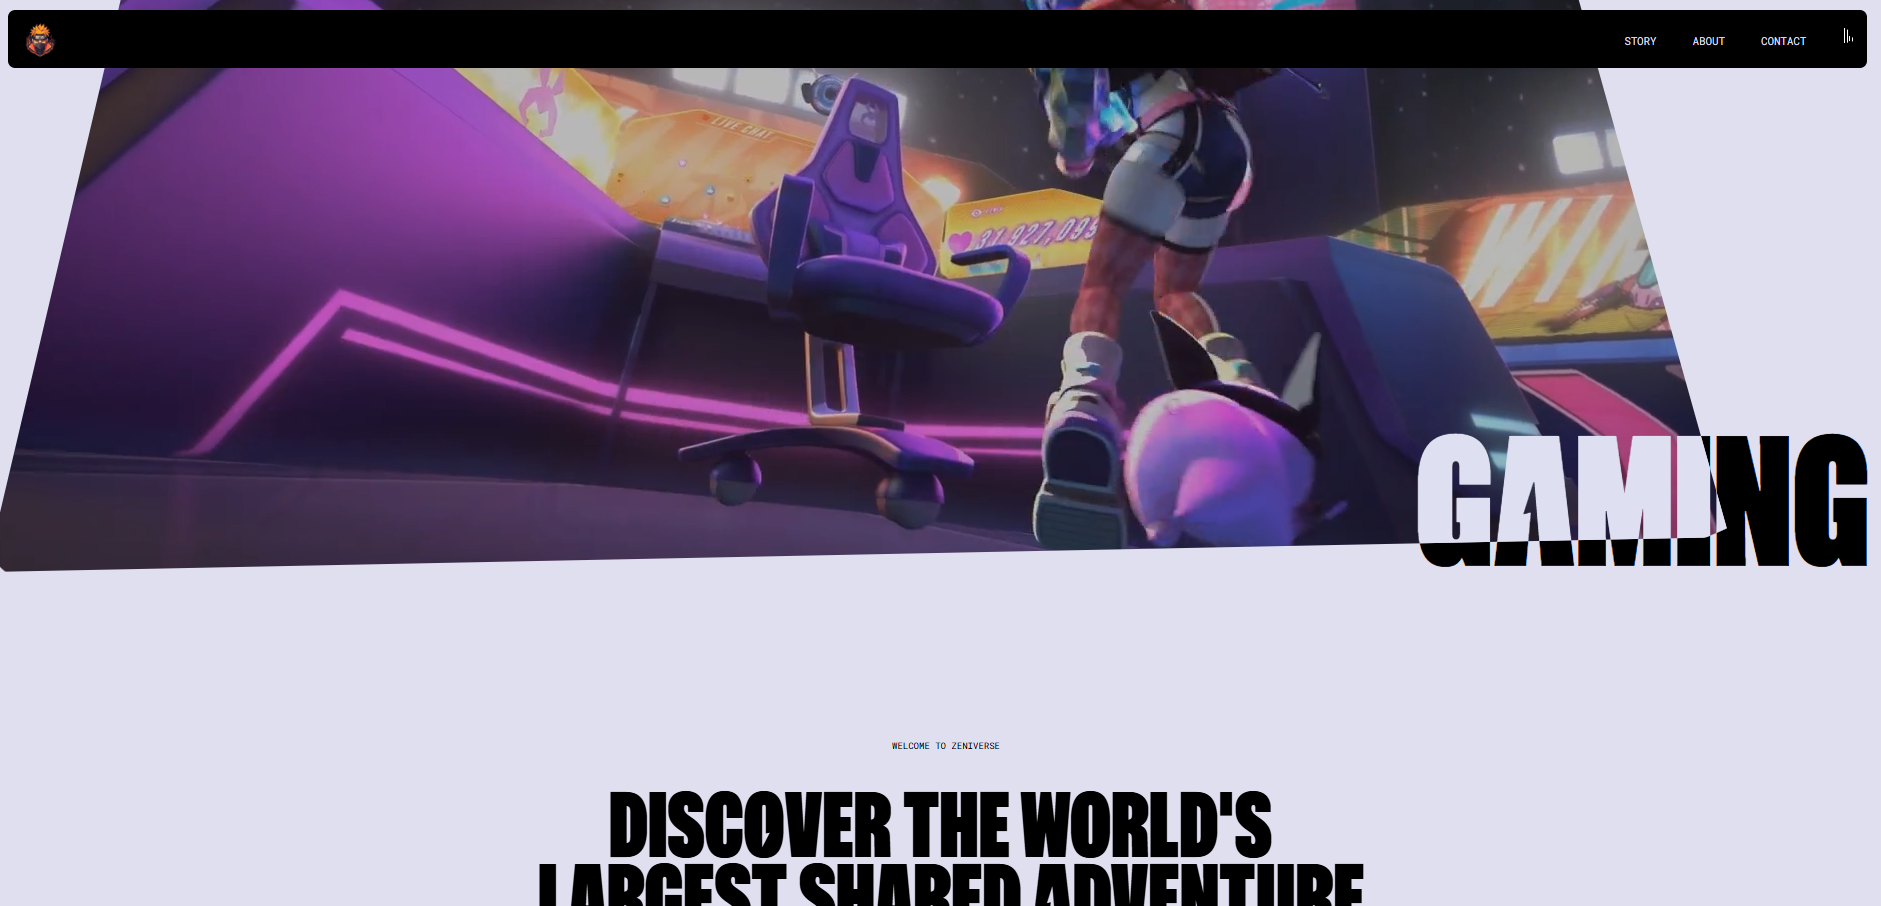
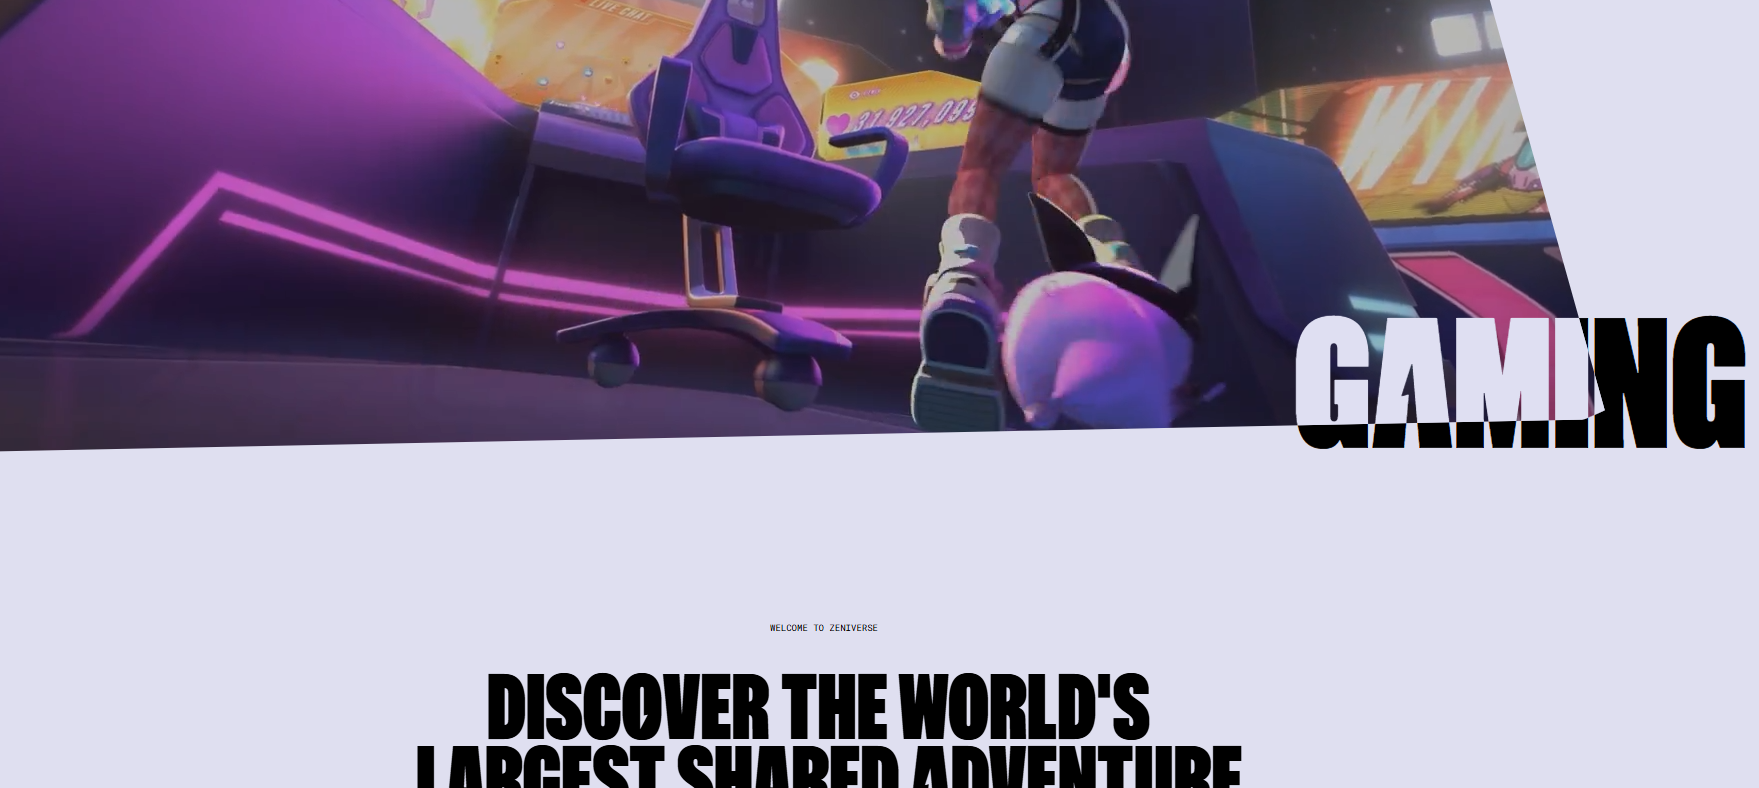
Image Parallax updated + Project Features added

diff --git a/portfolio2024/app/projects/[slug]/page.tsx b/portfolio2024/app/projects/[slug]/page.tsx
@@ -3,8 +3,6 @@ import { projects } from "@/data";
 import { notFound } from "next/navigation";
 import React from "react";
 import { HeroParallax } from "@/components/ui/hero-parallax";
-import { socialMedia } from "@/data";
-import Image from "next/image";
 import Footer from "@/components/Footer";
 
 
@@ -29,6 +27,7 @@ export default function ProjectDetails({ params }: { params: { slug: string } })
     screenshots: project.screenshots,
     iconLists: project.iconLists,
     link: project.link,
+    features: project.features,
   };
 
   return (
@@ -38,7 +37,29 @@ export default function ProjectDetails({ params }: { params: { slug: string } })
       {/* HeroParallax with the customized project data */}
       <HeroParallax selectedProject={selectedProject} />
 
-      <h1>Features</h1>
+      <section className="mt-[-120vh] h-[200vh] px-10">
+        <div className="max-w-7xl mx-auto">
+          <h1 className="!text-left heading">
+            Project <span className="block sm:inline text-purple">Features</span>
+          </h1>
+
+          {/* Dynamically rendered features */}
+          <ul className="mt-8 space-y-4 text-left list-disc list-inside">
+            {selectedProject.features?.map((feature, index) => (
+              <li key={index}>{feature}</li>
+            ))}
+          </ul>
+
+        </div>
+      </section>
+
+
+
+
+
+
+
+
 
    
       <Footer />

diff --git a/portfolio2024/data/index.ts b/portfolio2024/data/index.ts
@@ -86,6 +86,12 @@ export const projects = [
       "/screenshots/zeniverse_3.png",
       "/screenshots/zeniverse_4.png",
     ],
+    features: [
+      "abcdefh",
+      "ijklmnop",
+      "qrstuv",
+      "wxyz"
+    ],
   },
   {
     id: 2,
